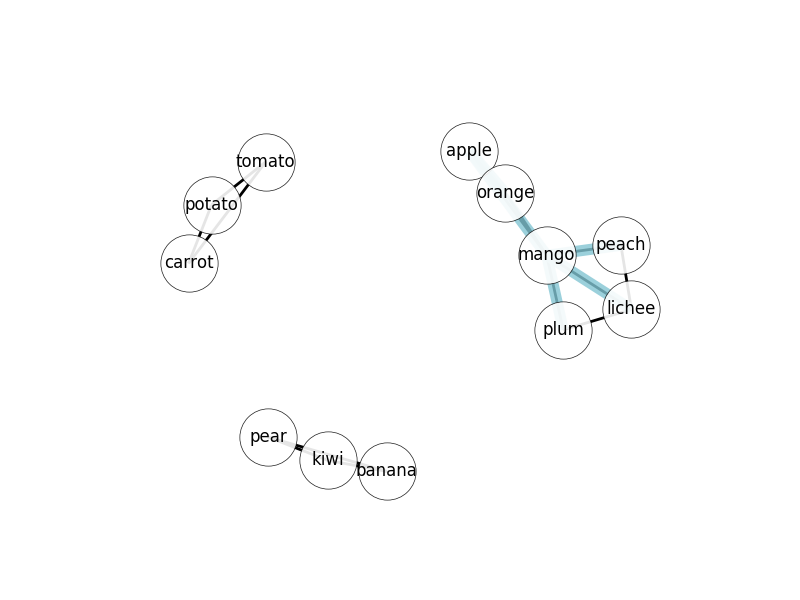
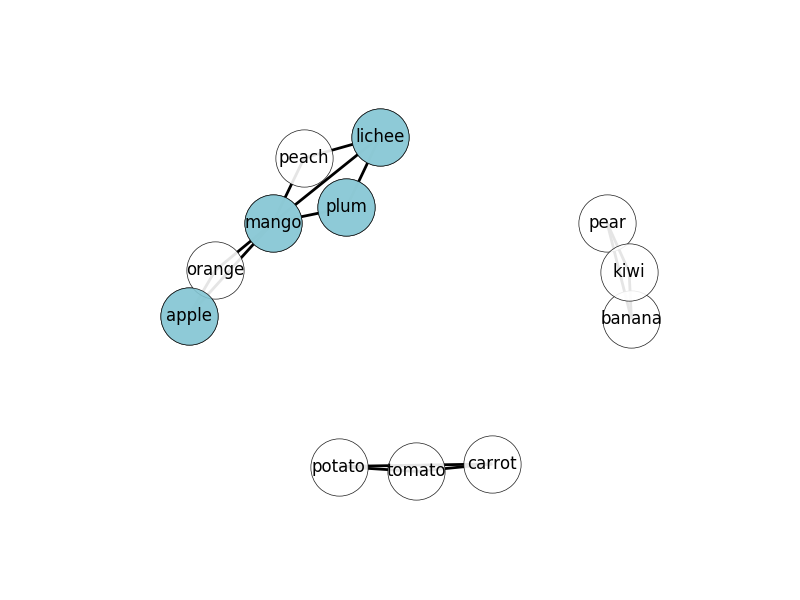
Графы восстановление пути

Changed region(s): [[0.1875, 0.18, 0.6875, 0.6], [0.625, 0.36, 0.8438, 0.57], [0.3125, 0.72, 0.6562, 0.84]]

diff --git a/graph/shortest_path.py b/graph/shortest_path.py
@@ -1,0 +1,80 @@
+import networkx as nx
+import matplotlib.pyplot as plt
+
+
+def graph_input():
+    """Функция считывает граф из файла."""
+    file = open('graph.txt', 'r')  # Открываем файл со списком ребер
+    g = nx.Graph()                 # Создаем заготовку под граф
+    for line in file.readlines():  # Производим считывание ребер из файла
+        a, b, weight = line.split()
+        a, b, weight = str(a), str(b), int(weight)
+        g.add_edge(a, b, weight=weight)
+    file.close()  # закрываем файл
+    return g
+
+
+def deikstra(g, start):
+    """Функция возвращает словарь из кратчайших путей от заданной вершины до всех остальных.
+    :param g: данный граф
+    :param start: начальная вершина
+    """
+    shortest_distance = {vertex: float('+inf') for vertex in g}
+    shortest_distance[start] = 0
+    shortest_way = {vertex: [] for vertex in g}
+    shortest_way[start] = [start]
+    queue = [start]
+    while queue:
+        current = queue.pop(0)
+        for neighbour in g[current]:
+            if shortest_distance[current] + g[current][neighbour]['weight'] < shortest_distance[neighbour]:
+                shortest_distance[neighbour] = shortest_distance[current] + g[current][neighbour]['weight']
+                shortest_way[neighbour].append(current)
+                queue.append(neighbour)
+    return [shortest_way, shortest_distance]
+
+
+def draw_graph(g1, g2):
+    """Функция рисует граф и путь.
+    :param g1: основной граф
+    :param g2: путь
+    """
+    pos = nx.spring_layout(g1)
+    # Рисуем вершины основного графа
+    nx.draw_networkx_nodes(g1, pos, node_size=1700, node_color='white', linewidths=0.5, alpha=0.9)
+    # Рисуем вершины пути
+    nx.draw_networkx_nodes(g1, pos, node_size=1700, node_color='#82C5D3', linewidths=0.5, alpha=0.9, nodelist=g2)
+    # Рисуем ребра графа
+    nx.draw_networkx_edges(g1, pos, width=2, alpha=1, edge_color='k')
+    # Рисуем метки
+    nx.draw_networkx_labels(g1, pos, font_size=12, font_family='sans-serif')
+
+    plt.axis('off')
+    plt.savefig("fruitland_bfs.png")
+    plt.show()
+
+
+graph = graph_input()
+start_node = str(input('Введите начальную вершину: '))
+finish_node = str(input('Введите конечную вершину: '))
+
+#start_node = 'apple'
+#finish_node = 'plum'
+
+shortest_way = deikstra(graph, start_node)[0][finish_node]        # Путь
+shortest_distance = deikstra(graph, start_node)[-1][finish_node]  # Длина кратчайшего пути
+
+if len(shortest_way) < 1:
+    print('Путь отсутствует')
+else:
+    print('Путь из', start_node, 'в', finish_node, ':', shortest_way)
+    print('Длина пути:', shortest_distance)
+
+subgraph = set()
+subgraph.add(start_node)
+subgraph.add(finish_node)
+for node in shortest_way:
+    if node not in subgraph:
+        subgraph.add(node)
+
+draw_graph(graph, graph.subgraph(subgraph))

diff --git a/graph/floyd.py b/graph/floyd.py
@@ -1,0 +1,28 @@
+import networkx as nx
+import matplotlib.pyplot as plt
+
+
+def graph_input():
+    """Функция считывает граф из файла."""
+    file = open('graph.txt', 'r')  # Открываем файл со списком ребер
+    g = nx.Graph()                 # Создаем заготовку под граф
+    for line in file.readlines():  # Производим считывание ребер из файла
+        a, b, weight = line.split()
+        a, b, weight = str(a), str(b), int(weight)
+        g.add_edge(a, b, weight=weight)
+    file.close()  # закрываем файл
+    return g
+
+
+def floyd(graph):
+    f = graph.copy()
+    for node1 in graph:
+        for node2 in graph:
+            for node3 in graph:
+                f[node2][node3] = min(f[node2][node3], f[node2][node1] + f[node1][node3])
+    return f
+
+
+graph = graph_input()
+f = floyd(graph)
+print(f)

diff --git a/graph/friends.py b/graph/friends.py
@@ -81,6 +81,7 @@ def draw_graph_components(graph):
                 plt.figure(number)
                 draw_graph(graph, component)
                 called_components.append(current_fired.copy())
+    plt.savefig("fruitland_friends.png")
     plt.show()
 
 # Считываем граф
